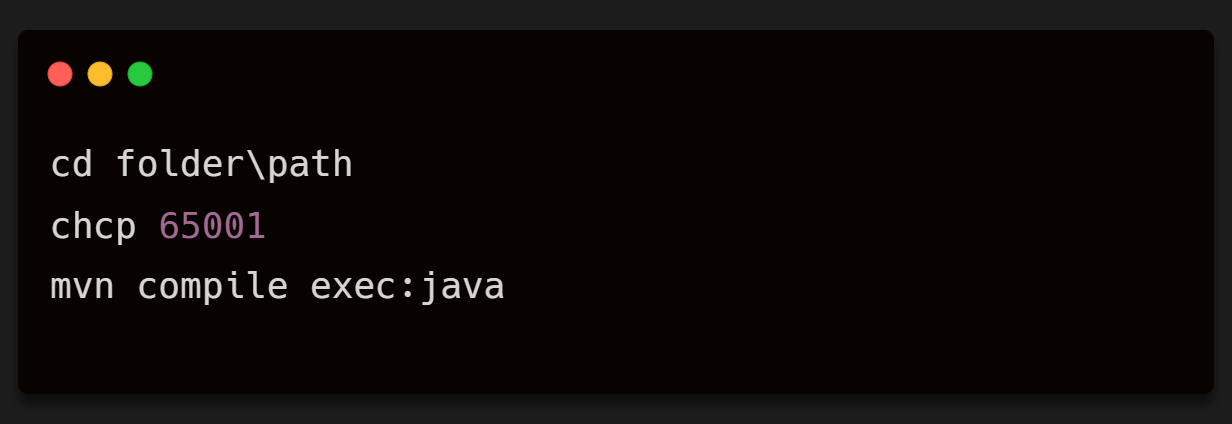
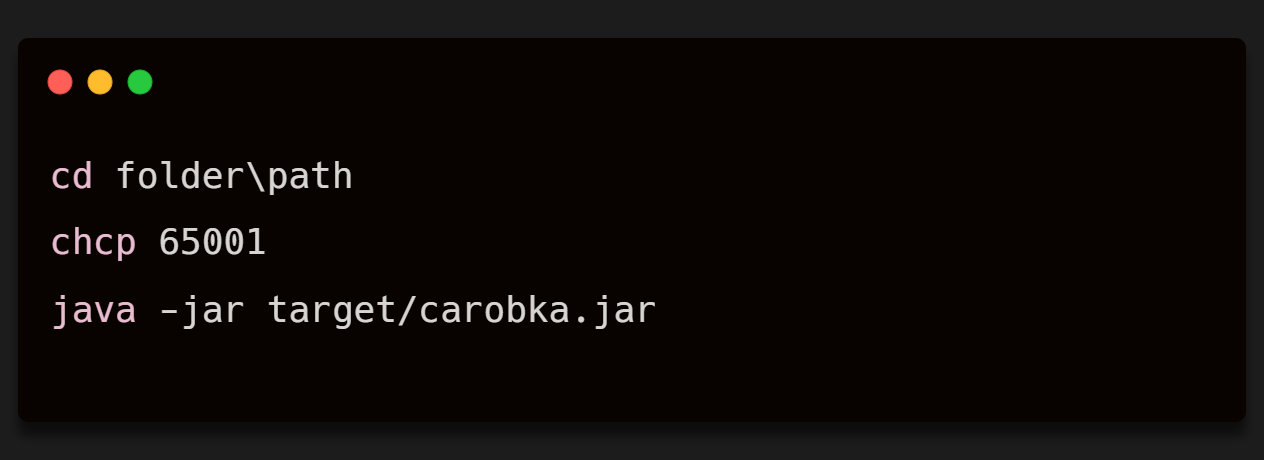
finish

diff --git a/src/css/main.css b/src/css/main.css
@@ -397,7 +397,7 @@ ul a:hover {
 
 .function-title, .function {
     display: grid;
-    grid-template-columns: 2fr minmax(120px, 1fr) minmax(120px, 1fr) minmax(120px, 1fr); /* Гибкие колонки */
+    grid-template-columns: 2fr minmax(120px, 1fr) minmax(120px, 1fr) minmax(120px, 1fr);
     grid-auto-columns: 1fr;
     grid-auto-flow: row;
     grid-row-gap: 10px; 
@@ -505,11 +505,11 @@ footer p {
     margin: 0 10%;
 }
 .contact img {
-    transition: opacity 0.3s ease; /* Плавный переход при наведении */
+    transition: opacity 0.3s ease; 
 }
 
 .contact img:hover {
-    opacity: 0.7; /* Затемнение при наведении */
+    opacity: 0.7;
 }
 
 
@@ -676,17 +676,17 @@ footer p {
         font-size: 24px;
     }
     .function-block {
-        max-width: 80%; /* Увеличиваем ширину до 100% */
-        padding: 20px; /* Уменьшаем отступы */
+        max-width: 80%; 
+        padding: 20px; 
     }
 
     .function-title, .function {
-        grid-template-columns: 2fr repeat(3, minmax(80px, 1fr)); /* Уменьшаем минимальную ширину колонок */
-        grid-row-gap: 8px; /* Уменьшаем расстояние между строками */
+        grid-template-columns: 2fr repeat(3, minmax(80px, 1fr)); 
+        grid-row-gap: 8px; 
     }
 
     .function-title > div, .function div {
-        font-size: 16px; /* Уменьшаем размер текста */
+        font-size: 16px;
     }
     .tooltip {
         width: 200px;
@@ -762,21 +762,21 @@ footer p {
         padding-top: 0px;
     }
     .function-block {
-        padding: 10px; /* Ещё больше уменьшаем отступы */
+        padding: 10px; 
     }
 
     .function-title, .function {
-        grid-template-columns: 2fr repeat(3, minmax(60px, 1fr)); /* Ещё больше уменьшаем минимальную ширину колонок */
-        grid-row-gap: 6px; /* Уменьшаем расстояние между строками */
+        grid-template-columns: 2fr repeat(3, minmax(60px, 1fr)); 
+        grid-row-gap: 6px; 
     }
 
     .function-title > div, .function > div {
-        font-size: 14px; /* Ещё больше уменьшаем размер текста */
+        font-size: 14px; 
     }
 
     .function img {
-        width: 40%; /* Уменьшаем размер изображений */
-        margin: 0 auto; /* Центрируем изображения */
+        width: 40%; 
+        margin: 0 auto; 
     }
     .tooltip {
         width: 180px;

diff --git a/index.html b/index.html
@@ -117,9 +117,9 @@
         </div>
         <p style="font-weight: 600;">Sistēmas prasības:</p>
         <ul>
-          <li>Java JDK 21 vai jaunāka versija (lejupielādei: <a href="https://adoptium.net/" target="_blank">Adoptium.net</a>)</li>
-          <li><a href="https://maven.apache.org/" target="_blank">Apache Maven</a></li>
-          <li>Windows terminālis ar UTF-8 atbalstu (CMD, PowerShell, Windows Terminal) vai Visual Studio Code</li>
+          <li>Windows 10 / 11, Linux vai macOS</li>
+          <li>Java JDK 14 vai jaunāka (ieteicams JDK 14)</li>
+          <li>UTF-8 atbalstošs terminālis ar iespēju attēlot Braila simbolus (piemēram, VS Code terminālis, Windows Terminal u.c.)</li>
         </ul>
         <div class="download-button">
           <a href="https://github.com/23DP1ELevsa/carObka/archive/refs/heads/main.zip" download="file">

diff --git a/src/js/main.js b/src/js/main.js
@@ -28,7 +28,7 @@ document.addEventListener("DOMContentLoaded", function () {
   const navLinks = document.querySelector(".nav-links");
 
   hamburger.addEventListener("click", (e) => {
-    e.stopPropagation(); // предотвращаем всплытие клика
+    e.stopPropagation();
     hamburger.classList.toggle("active");
     navLinks.classList.toggle("active");
   });
